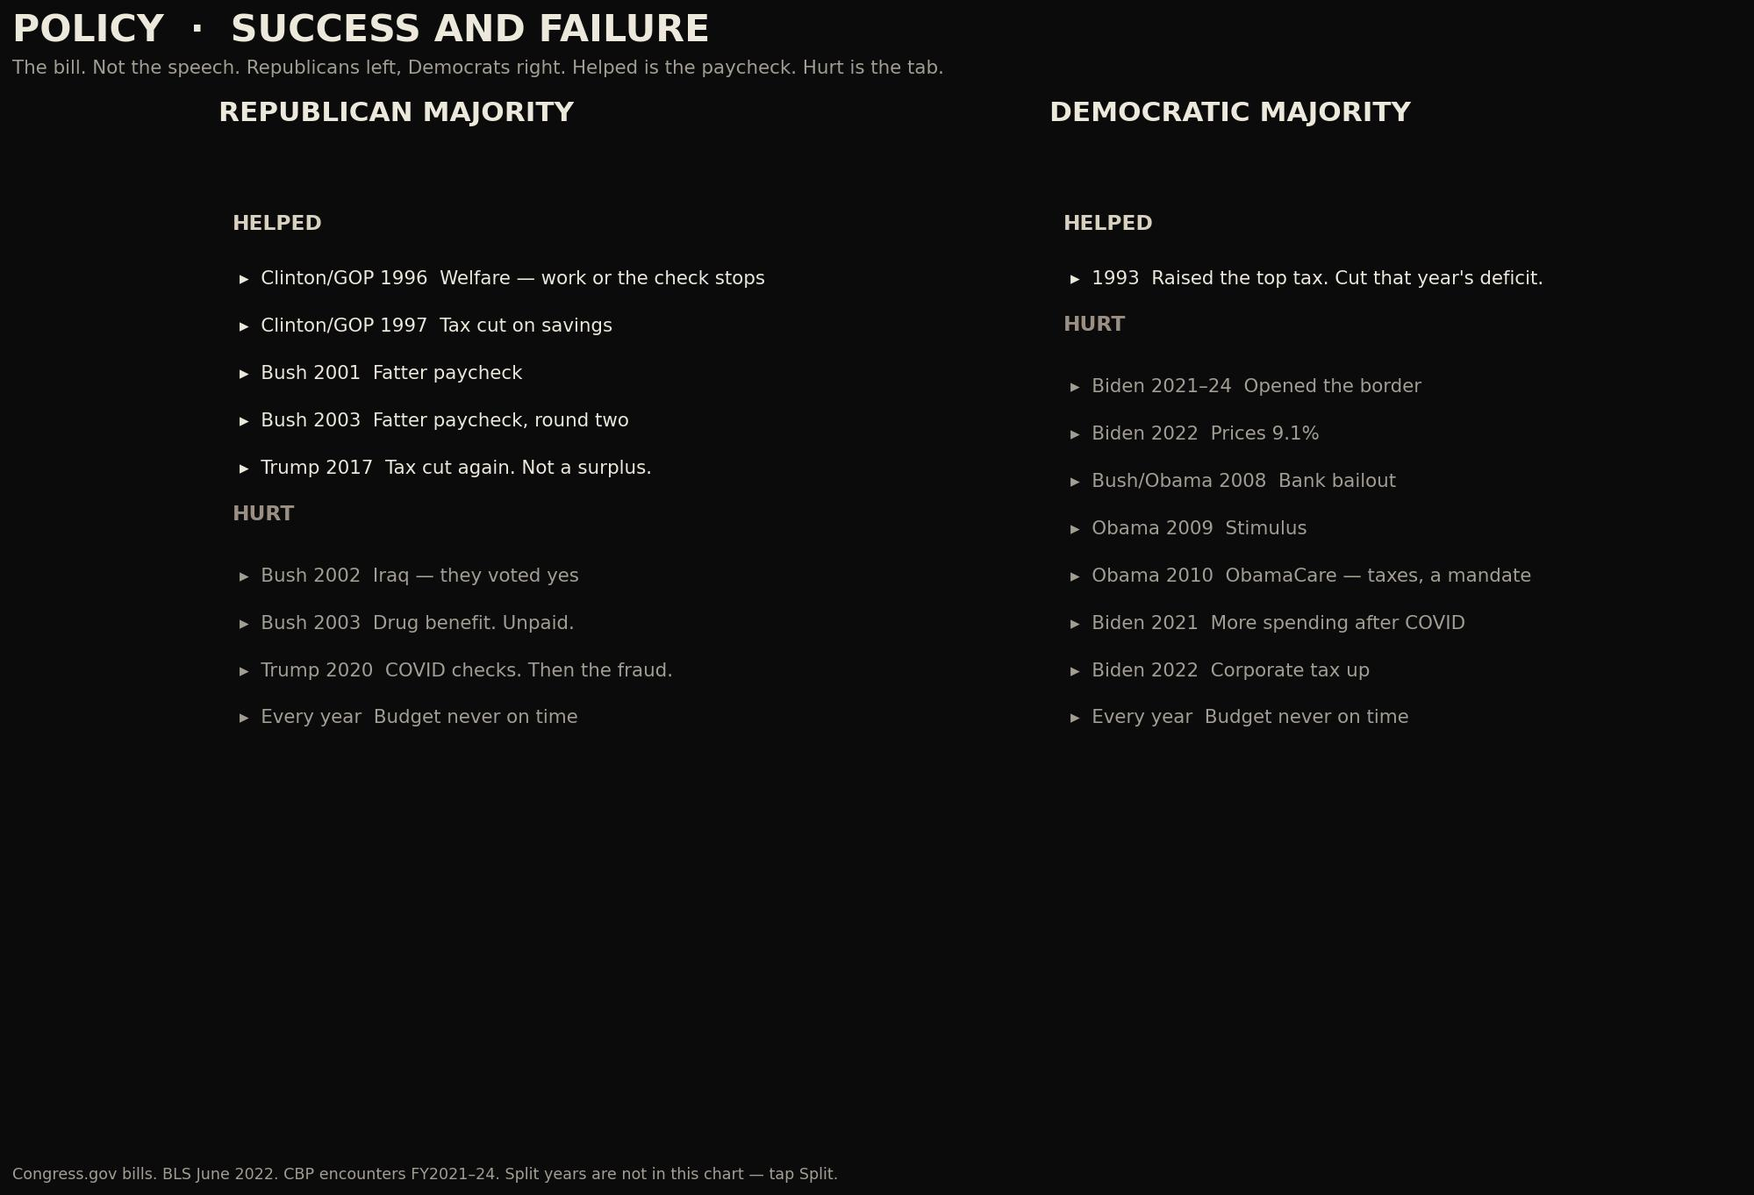
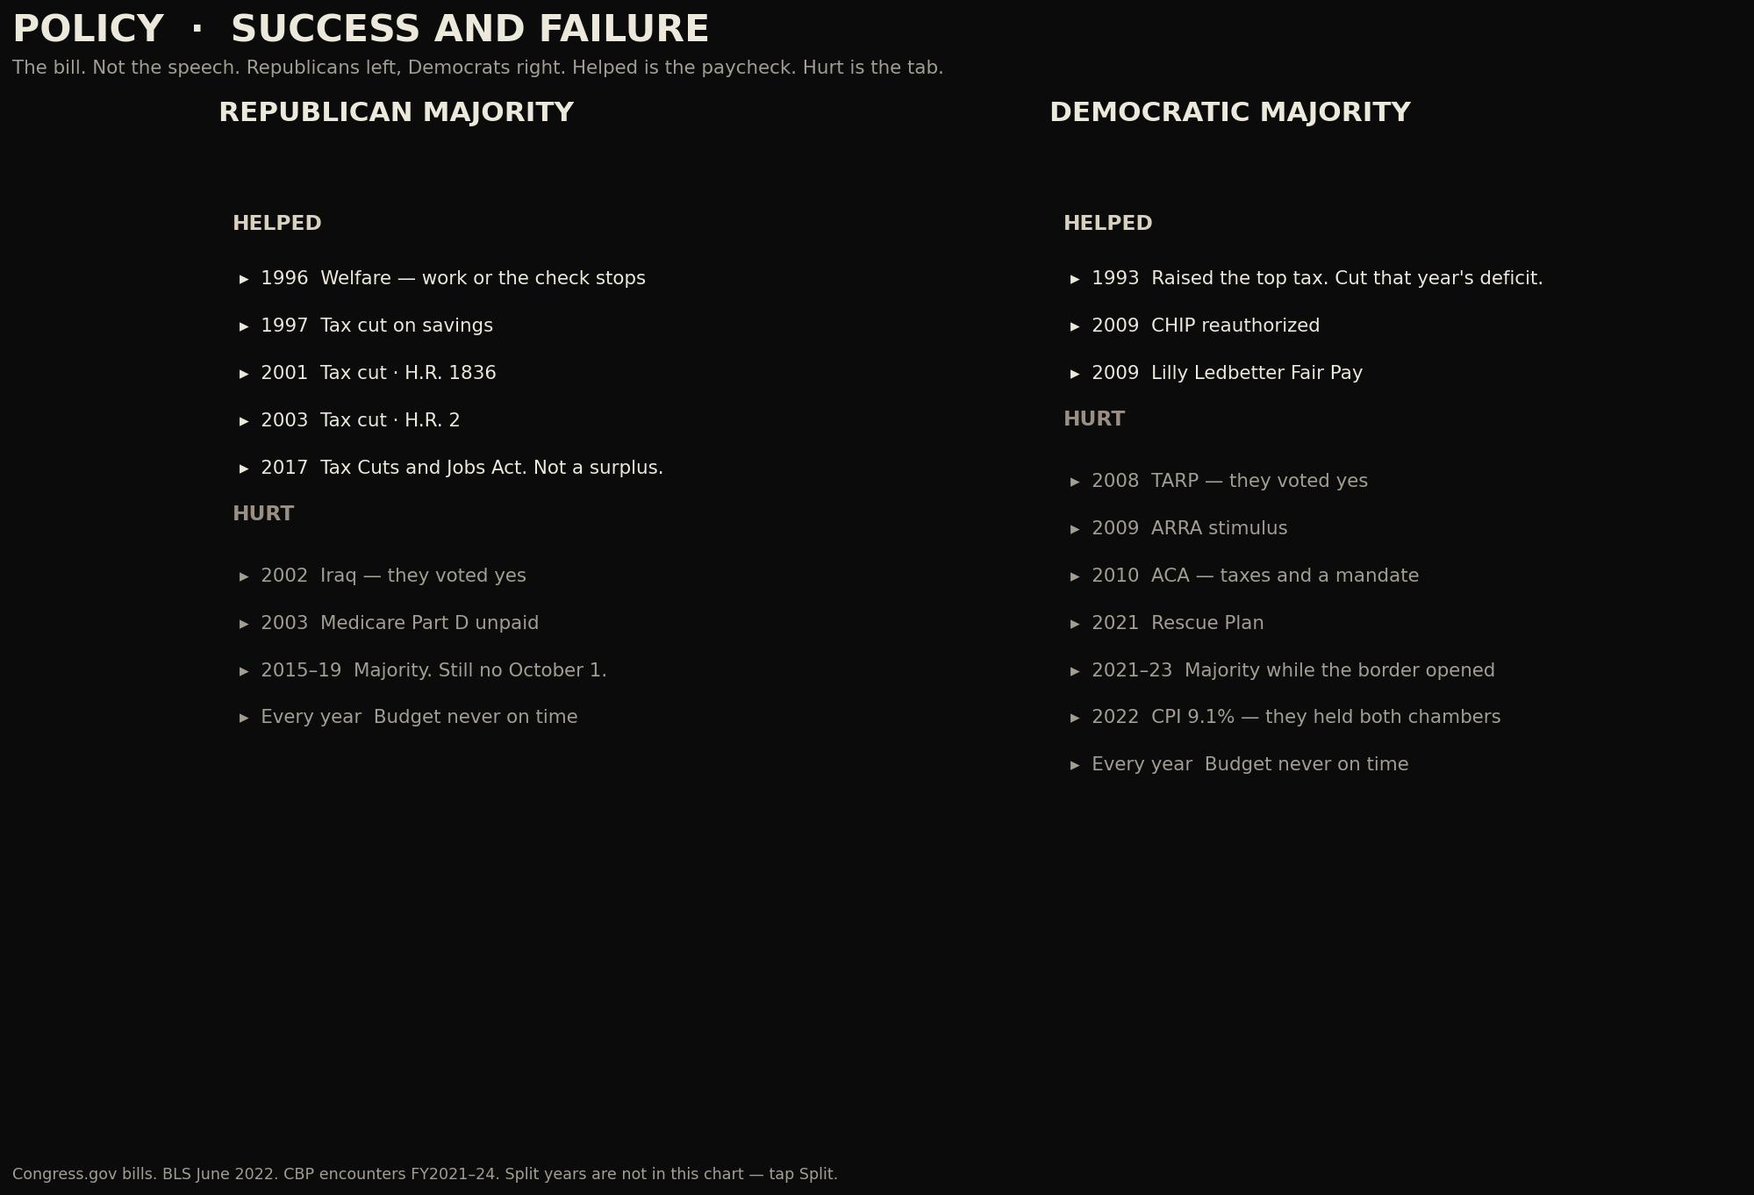
GOP file is majority bills. Oval meters stay on Oval and Compare.

diff --git a/UPLOAD-TO-NAMECHEAP/scorecard.html b/UPLOAD-TO-NAMECHEAP/scorecard.html
@@ -92,12 +92,12 @@ footer .f{max-width:72rem;margin:0 auto;display:flex;justify-content:space-betwe
 <div class="panel" id="gop-charts">
 <p class="btns"><a class="btn" href="#gop-charts">Charts</a><a class="btn out" href="#gop-read">Read</a></p>
 
-<figure><p class="kicker">Helped and hurt — Congress and the Oval</p><img src="/images/chart-helped-hurt.jpg" alt="Helped and hurt — Congress and the Oval"/><figcaption style="color:#a39e93;font-size:.85rem"><a href="https://www.congress.gov/">Congress.gov</a> · <a href="https://www.bls.gov/cpi/">BLS CPI</a> · <a href="https://www.eia.gov/petroleum/gasdiesel/">EIA — the gallon</a> · <a href="https://www.cbp.gov/newsroom/stats/nationwide-encounters">CBP nationwide</a></figcaption></figure><figure><p class="kicker">Policy — success and failure</p><img src="/images/chart-policy.jpg" alt="Policy — success and failure"/><figcaption style="color:#a39e93;font-size:.85rem"><a href="https://www.congress.gov/">Congress.gov</a> · <a href="https://www.bls.gov/news.release/archives/cpi_07132022.htm">BLS — June 2022</a></figcaption></figure><figure><p class="kicker">The debt — no oversight, $40 trillion, full-time pay for part-time hours</p><img src="/images/chart-debt-why.jpg" alt="The debt — no oversight, $40 trillion, full-time pay for part-time hours"/><figcaption style="color:#a39e93;font-size:.85rem"><a href="https://www.cbo.gov/topics/budget">CBO — budget</a> · <a href="https://fiscaldata.treasury.gov/datasets/debt-to-the-penny/">Treasury — Debt to the Penny</a> · <a href="https://www.gao.gov/products/gao-25-107746">GAO fraud</a></figcaption></figure><figure><p class="kicker">The Oval — encounters and the highest price spike (CPI)</p><img src="/images/chart-oval.jpg" alt="The Oval — encounters and the highest price spike (CPI)"/><figcaption style="color:#a39e93;font-size:.85rem"><a href="https://www.cbp.gov/newsroom/stats/cbp-enforcement-statistics">CBP — enforcement statistics</a> · <a href="https://www.bls.gov/cpi/">BLS — CPI</a> · <a href="https://www.eia.gov/petroleum/gasdiesel/">EIA — the gallon</a></figcaption></figure>
+<figure><p class="kicker">Policy — success and failure</p><img src="/images/chart-policy.jpg" alt="Policy — success and failure"/><figcaption style="color:#a39e93;font-size:.85rem"><a href="https://www.congress.gov/">Congress.gov</a> · <a href="https://www.bls.gov/news.release/archives/cpi_07132022.htm">BLS — June 2022</a></figcaption></figure><figure><p class="kicker">The debt — no oversight, $40 trillion, full-time pay for part-time hours</p><img src="/images/chart-debt-why.jpg" alt="The debt — no oversight, $40 trillion, full-time pay for part-time hours"/><figcaption style="color:#a39e93;font-size:.85rem"><a href="https://www.cbo.gov/topics/budget">CBO — budget</a> · <a href="https://fiscaldata.treasury.gov/datasets/debt-to-the-penny/">Treasury — Debt to the Penny</a> · <a href="https://www.gao.gov/products/gao-25-107746">GAO fraud</a></figcaption></figure><figure><p class="kicker">Actual inflation — who held Congress</p><img src="/images/chart-inflation-party.jpg" alt="Actual inflation — who held Congress"/><figcaption style="color:#a39e93;font-size:.85rem"><a href="https://www.bls.gov/cpi/">BLS CPI-U</a> · <a href="https://www.bls.gov/news.release/archives/cpi_07132022.htm">9.1% — June 2022</a> · <a href="https://www.bls.gov/news.release/cpi.nr0.htm">BLS live — August 2026, 3.4%</a> · <a href="https://fred.stlouisfed.org/graph/?id=CPIAUCSL&units=pc1">FRED — 12-month CPI</a></figcaption></figure>
 </div>
 <div class="panel" id="dem-charts">
 <p class="btns"><a class="btn" href="#dem-charts">Charts</a><a class="btn out" href="#dem-read">Read</a></p>
 
-<figure><p class="kicker">Helped and hurt — Congress and the Oval</p><img src="/images/chart-helped-hurt.jpg" alt="Helped and hurt — Congress and the Oval"/><figcaption style="color:#a39e93;font-size:.85rem"><a href="https://www.congress.gov/">Congress.gov</a> · <a href="https://www.bls.gov/cpi/">BLS CPI</a> · <a href="https://www.eia.gov/petroleum/gasdiesel/">EIA — the gallon</a> · <a href="https://www.cbp.gov/newsroom/stats/nationwide-encounters">CBP nationwide</a></figcaption></figure><figure><p class="kicker">The invasion bill — taxpayer cost and the eligibility doors</p><img src="/images/chart-aliens.jpg" alt="The invasion bill — taxpayer cost and the eligibility doors"/><figcaption style="color:#a39e93;font-size:.85rem"><a href="https://www.cbp.gov/newsroom/stats/nationwide-encounters">CBP nationwide</a> · <a href="https://www.cbo.gov/publication/61256">CBO 61256</a> · <a href="https://www.cbo.gov/publication/60805">CBO 60805</a> · <a href="https://www.law.cornell.edu/uscode/text/8/1611">8 U.S.C. § 1611</a></figcaption></figure><figure><p class="kicker">The open border — by administration</p><img src="/images/chart-border.jpg" alt="The open border — by administration"/><figcaption style="color:#a39e93;font-size:.85rem"><a href="https://www.cbp.gov/newsroom/stats/southwest-land-border-encounters">CBP — southwest encounters</a> · <a href="https://www.cbo.gov/publication/61256">CBO — 2023 state and local cost</a></figcaption></figure><figure><p class="kicker">The Oval — encounters and the highest price spike (CPI)</p><img src="/images/chart-oval.jpg" alt="The Oval — encounters and the highest price spike (CPI)"/><figcaption style="color:#a39e93;font-size:.85rem"><a href="https://www.cbp.gov/newsroom/stats/cbp-enforcement-statistics">CBP — enforcement statistics</a> · <a href="https://www.bls.gov/cpi/">BLS — CPI</a> · <a href="https://www.eia.gov/petroleum/gasdiesel/">EIA — the gallon</a></figcaption></figure><figure><p class="kicker">Actual inflation — who held Congress</p><img src="/images/chart-inflation-party.jpg" alt="Actual inflation — who held Congress"/><figcaption style="color:#a39e93;font-size:.85rem"><a href="https://www.bls.gov/cpi/">BLS CPI-U</a> · <a href="https://www.bls.gov/news.release/archives/cpi_07132022.htm">9.1% — June 2022</a> · <a href="https://www.bls.gov/news.release/cpi.nr0.htm">BLS live — August 2026, 3.4%</a> · <a href="https://fred.stlouisfed.org/graph/?id=CPIAUCSL&units=pc1">FRED — 12-month CPI</a></figcaption></figure><figure><p class="kicker">Policy — success and failure</p><img src="/images/chart-policy.jpg" alt="Policy — success and failure"/><figcaption style="color:#a39e93;font-size:.85rem"><a href="https://www.congress.gov/">Congress.gov</a> · <a href="https://www.bls.gov/news.release/archives/cpi_07132022.htm">BLS — June 2022</a></figcaption></figure>
+<figure><p class="kicker">Policy — success and failure</p><img src="/images/chart-policy.jpg" alt="Policy — success and failure"/><figcaption style="color:#a39e93;font-size:.85rem"><a href="https://www.congress.gov/">Congress.gov</a> · <a href="https://www.bls.gov/news.release/archives/cpi_07132022.htm">BLS — June 2022</a></figcaption></figure><figure><p class="kicker">The invasion bill — taxpayer cost and the eligibility doors</p><img src="/images/chart-aliens.jpg" alt="The invasion bill — taxpayer cost and the eligibility doors"/><figcaption style="color:#a39e93;font-size:.85rem"><a href="https://www.cbp.gov/newsroom/stats/nationwide-encounters">CBP nationwide</a> · <a href="https://www.cbo.gov/publication/61256">CBO 61256</a> · <a href="https://www.cbo.gov/publication/60805">CBO 60805</a> · <a href="https://www.law.cornell.edu/uscode/text/8/1611">8 U.S.C. § 1611</a></figcaption></figure><figure><p class="kicker">Actual inflation — who held Congress</p><img src="/images/chart-inflation-party.jpg" alt="Actual inflation — who held Congress"/><figcaption style="color:#a39e93;font-size:.85rem"><a href="https://www.bls.gov/cpi/">BLS CPI-U</a> · <a href="https://www.bls.gov/news.release/archives/cpi_07132022.htm">9.1% — June 2022</a> · <a href="https://www.bls.gov/news.release/cpi.nr0.htm">BLS live — August 2026, 3.4%</a> · <a href="https://fred.stlouisfed.org/graph/?id=CPIAUCSL&units=pc1">FRED — 12-month CPI</a></figcaption></figure>
 </div>
 <div class="panel" id="split-charts">
 <p class="btns"><a class="btn" href="#split-charts">Charts</a><a class="btn out" href="#split-read">Read</a></p>
@@ -107,7 +107,7 @@ footer .f{max-width:72rem;margin:0 auto;display:flex;justify-content:space-betwe
 <div class="panel" id="oval-charts">
 <p class="btns"><a class="btn" href="#oval-charts">Charts</a><a class="btn out" href="#oval-read">Read</a></p>
 <p class="kicker">What an encounter is</p><p>Customs and Border Protection counts an encounter when its officers meet a person who is not making a lawful entry. That is Border Patrol between the ports of entry, and officers at land ports, airports, and seaports. It is people stopped, turned back, expelled, or processed. It is not a visa. It is not a gotaway — those are the people CBP did not meet. Nationwide means every door CBP counts, not only the southwest river. Bush and Obama use southwest Border Patrol, the long official table. Trump 1 and Biden use CBP nationwide when that dashboard exists. Four Ovals: two Republican, two Democratic.</p><p><a href="https://www.cbp.gov/newsroom/stats/nationwide-encounters">CBP — nationwide encounters →</a></p><p class="kicker">What CPI peak means</p><p>CPI is the Consumer Price Index. The Bureau of Labor Statistics measures a basket of what people actually buy — groceries, rent, fuel, the doctor’s office — and reports how much more that basket costs than a year earlier. CPI peak is the highest of those 12-month readings in that Oval. It is not a four-year average. Biden’s 9.1% is June 2022. Bush’s 5.6% is July 2008. Obama’s 3.9% is September 2011. Trump’s first term: 2.9%.</p><p><a href="https://www.bls.gov/cpi/">BLS — Consumer Price Index →</a></p>
-<figure><p class="kicker">The Oval — encounters and the highest price spike (CPI)</p><img src="/images/chart-oval.jpg" alt="The Oval — encounters and the highest price spike (CPI)"/><figcaption style="color:#a39e93;font-size:.85rem"><a href="https://www.cbp.gov/newsroom/stats/cbp-enforcement-statistics">CBP — enforcement statistics</a> · <a href="https://www.bls.gov/cpi/">BLS — CPI</a> · <a href="https://www.eia.gov/petroleum/gasdiesel/">EIA — the gallon</a></figcaption></figure><figure><p class="kicker">The gallon — four administrations</p><img src="/images/chart-pump-admins.jpg" alt="The gallon — four administrations"/><figcaption style="color:#a39e93;font-size:.85rem"><a href="https://www.eia.gov/petroleum/gasdiesel/">EIA</a> · <a href="https://fred.stlouisfed.org/series/GASREGW">FRED GASREGW</a></figcaption></figure><figure><p class="kicker">Crime — murder rate by administration</p><img src="/images/chart-crime.jpg" alt="Crime — murder rate by administration"/><figcaption style="color:#a39e93;font-size:.85rem"><a href="https://www.fbi.gov/news/stories/violent-crime-falls-at-historic-rate-new-fbi-data-show">FBI — violent crime 2025</a> · <a href="https://bjs.ojp.gov/document/ckle24.pdf">BJS — Crime Known to Law Enforcement, 2024</a></figcaption></figure>
+<figure><p class="kicker">The Oval — encounters and the highest price spike (CPI)</p><img src="/images/chart-oval.jpg" alt="The Oval — encounters and the highest price spike (CPI)"/><figcaption style="color:#a39e93;font-size:.85rem"><a href="https://www.cbp.gov/newsroom/stats/cbp-enforcement-statistics">CBP — enforcement statistics</a> · <a href="https://www.bls.gov/cpi/">BLS — CPI</a> · <a href="https://www.eia.gov/petroleum/gasdiesel/">EIA — the gallon</a></figcaption></figure><figure><p class="kicker">The gallon — four administrations</p><img src="/images/chart-pump-admins.jpg" alt="The gallon — four administrations"/><figcaption style="color:#a39e93;font-size:.85rem"><a href="https://www.eia.gov/petroleum/gasdiesel/">EIA</a> · <a href="https://fred.stlouisfed.org/series/GASREGW">FRED GASREGW</a></figcaption></figure><figure><p class="kicker">Crime — murder rate by administration</p><img src="/images/chart-crime.jpg" alt="Crime — murder rate by administration"/><figcaption style="color:#a39e93;font-size:.85rem"><a href="https://www.fbi.gov/news/stories/violent-crime-falls-at-historic-rate-new-fbi-data-show">FBI — violent crime 2025</a> · <a href="https://bjs.ojp.gov/document/ckle24.pdf">BJS — Crime Known to Law Enforcement, 2024</a></figcaption></figure><figure><p class="kicker">The open border — by administration</p><img src="/images/chart-border.jpg" alt="The open border — by administration"/><figcaption style="color:#a39e93;font-size:.85rem"><a href="https://www.cbp.gov/newsroom/stats/southwest-land-border-encounters">CBP — southwest encounters</a> · <a href="https://www.cbo.gov/publication/61256">CBO — 2023 state and local cost</a></figcaption></figure>
 </div>
 <div class="panel" id="compare-charts">
 <p class="btns"><a class="btn" href="#compare-charts">Charts</a><a class="btn out" href="#compare-read">Read</a></p>
@@ -121,9 +121,9 @@ footer .f{max-width:72rem;margin:0 auto;display:flex;justify-content:space-betwe
 <p>Majority control of the House and the Senate: 1995–2001 · 2003–07 · 2015–19 · 2025–now. That is the purse. They could pass a spending bill without Democrats.</p>
 <p>Added about $10.96 trillion on those watches since 1995. Last surplus: late 1990s.</p>
 <p class="kicker">Helped</p>
-<ul><li><a href="https://www.congress.gov/bill/104th-congress/house-bill/3734"><strong>Welfare — work, or the check stops</strong><br/>H.R. 3734 · 1996</a></li><li><a href="https://www.congress.gov/bill/105th-congress/house-bill/2014"><strong>Tax cut on savings</strong><br/>H.R. 2014 · 1997</a></li><li><a href="https://www.congress.gov/bill/107th-congress/house-bill/1836"><strong>Fatter paycheck</strong><br/>H.R. 1836 · 2001</a></li><li><a href="https://www.congress.gov/bill/108th-congress/house-bill/2"><strong>Fatter paycheck, round two</strong><br/>H.R. 2 · 2003</a></li><li><a href="https://www.congress.gov/bill/115th-congress/house-bill/1"><strong>Fatter paycheck again. Not a surplus.</strong><br/>H.R. 1 · Tax Cuts and Jobs Act · 2017</a></li><li><a href="https://www.bls.gov/cpi/"><strong>Prices stayed down. CPI peak in the first Trump term: 2.9%.</strong><br/>BLS CPI · 2017–20</a></li><li><a href="https://www.cbp.gov/newsroom/stats/southwest-land-border-encounters"><strong>Southwest Border Patrol FY2025: 237,538. Lowest since 1970.</strong><br/>CBP · FY2025</a></li></ul>
+<ul><li><a href="https://www.congress.gov/bill/104th-congress/house-bill/3734"><strong>Welfare — work, or the check stops</strong><br/>H.R. 3734 · 1996</a></li><li><a href="https://www.congress.gov/bill/105th-congress/house-bill/2014"><strong>Tax cut on savings</strong><br/>H.R. 2014 · 1997</a></li><li><a href="https://www.congress.gov/bill/107th-congress/house-bill/1836"><strong>Fatter paycheck</strong><br/>H.R. 1836 · 2001</a></li><li><a href="https://www.congress.gov/bill/108th-congress/house-bill/2"><strong>Fatter paycheck, round two</strong><br/>H.R. 2 · 2003</a></li><li><a href="https://www.congress.gov/bill/115th-congress/house-bill/1"><strong>Fatter paycheck again. Not a surplus.</strong><br/>H.R. 1 · Tax Cuts and Jobs Act · 2017</a></li></ul>
 <p class="kicker">Hurt</p>
-<ul><li><a href="https://www.congress.gov/bill/107th-congress/house-joint-resolution/114"><strong>Iraq war — they voted yes</strong><br/>H.J.Res. 114 · 2002</a></li><li><a href="https://www.congress.gov/bill/108th-congress/house-bill/1"><strong>Drug benefit. They did not pay for it.</strong><br/>H.R. 1 · Medicare Part D · 2003</a></li><li><a href="https://fiscaldata.treasury.gov/datasets/historical-debt-outstanding/"><strong>Republican majority 2015–17, Obama still in the Oval. Debt still climbed. They did not close October 1.</strong><br/>Treasury · Historical Debt Outstanding</a></li><li><a href="https://www.congress.gov/bill/116th-congress/house-bill/748"><strong>COVID checks. Both parties. Then the fraud.</strong><br/>H.R. 748 · CARES Act · 2020</a></li><li><a href="https://www.congress.gov/bill/93rd-congress/house-bill/7130"><strong>They never finish the budget on time</strong><br/>H.R. 7130 · Budget Act · 1974</a></li></ul>
+<ul><li><a href="https://www.congress.gov/bill/107th-congress/house-joint-resolution/114"><strong>Iraq war — they voted yes</strong><br/>H.J.Res. 114 · 2002</a></li><li><a href="https://www.congress.gov/bill/108th-congress/house-bill/1"><strong>Drug benefit. They did not pay for it.</strong><br/>H.R. 1 · Medicare Part D · 2003</a></li><li><a href="https://fiscaldata.treasury.gov/datasets/historical-debt-outstanding/"><strong>Republican majority 2015–17, Obama still in the Oval. Debt still climbed. They did not close October 1.</strong><br/>Treasury · Historical Debt Outstanding</a></li><li><a href="https://www.congress.gov/bill/93rd-congress/house-bill/7130"><strong>They never finish the budget on time</strong><br/>H.R. 7130 · Budget Act · 1974</a></li></ul>
 
 
 

diff --git a/src/lib/scorecard.ts b/src/lib/scorecard.ts
@@ -741,16 +741,6 @@ export const RECORD: {
         bill: "H.R. 1 · Tax Cuts and Jobs Act · 2017",
         href: "https://www.congress.gov/bill/115th-congress/house-bill/1",
       },
-      {
-        k: "Prices stayed down. CPI peak in the first Trump term: 2.9%.",
-        bill: "BLS CPI · 2017–20",
-        href: "https://www.bls.gov/cpi/",
-      },
-      {
-        k: "Southwest Border Patrol FY2025: 237,538. Lowest since 1970.",
-        bill: "CBP · FY2025",
-        href: "https://www.cbp.gov/newsroom/stats/southwest-land-border-encounters",
-      },
     ],
     minus: [
       {
@@ -767,11 +757,6 @@ export const RECORD: {
         k: "Republican majority 2015–17, Obama still in the Oval. Debt still climbed. They did not close October 1.",
         bill: "Treasury · Historical Debt Outstanding",
         href: "https://fiscaldata.treasury.gov/datasets/historical-debt-outstanding/",
-      },
-      {
-        k: "COVID checks. Both parties. Then the fraud.",
-        bill: "H.R. 748 · CARES Act · 2020",
-        href: "https://www.congress.gov/bill/116th-congress/house-bill/748",
       },
       {
         k: "They never finish the budget on time",
@@ -1204,17 +1189,19 @@ function chartsFor(...srcs: string[]) {
 }
 
 export const TAB_CHARTS: Record<(typeof SCORE_TABS)[number]["id"], ReturnType<typeof chartsFor>> = {
-  gop: chartsFor("/images/chart-helped-hurt.jpg", "/images/chart-policy.jpg", "/images/chart-debt-why.jpg", "/images/chart-oval.jpg"),
+  gop: chartsFor("/images/chart-policy.jpg", "/images/chart-debt-why.jpg", "/images/chart-inflation-party.jpg"),
   dem: chartsFor(
-    "/images/chart-helped-hurt.jpg",
-    "/images/chart-aliens.jpg",
-    "/images/chart-border.jpg",
-    "/images/chart-oval.jpg",
-    "/images/chart-inflation-party.jpg",
     "/images/chart-policy.jpg",
+    "/images/chart-aliens.jpg",
+    "/images/chart-inflation-party.jpg",
   ),
   split: chartsFor("/images/chart-debt-why.jpg", "/images/chart-blame.jpg"),
-  oval: chartsFor("/images/chart-oval.jpg", "/images/chart-pump-admins.jpg", "/images/chart-crime.jpg"),
+  oval: chartsFor(
+    "/images/chart-oval.jpg",
+    "/images/chart-pump-admins.jpg",
+    "/images/chart-crime.jpg",
+    "/images/chart-border.jpg",
+  ),
   compare: COMPARE_CHARTS,
 };
 

diff --git a/scripts/make-party-charts.py b/scripts/make-party-charts.py
@@ -190,29 +190,30 @@ fig.text(
 )
 
 gop_help = [
-    "Clinton/GOP 1996  Welfare — work or the check stops",
-    "Clinton/GOP 1997  Tax cut on savings",
-    "Bush 2001  Fatter paycheck",
-    "Bush 2003  Fatter paycheck, round two",
-    "Trump 2017  Tax cut again. Not a surplus.",
+    "1996  Welfare — work or the check stops",
+    "1997  Tax cut on savings",
+    "2001  Tax cut · H.R. 1836",
+    "2003  Tax cut · H.R. 2",
+    "2017  Tax Cuts and Jobs Act. Not a surplus.",
 ]
 gop_hurt = [
-    "Bush 2002  Iraq — they voted yes",
-    "Bush 2003  Drug benefit. Unpaid.",
-    "Trump 2020  COVID checks. Then the fraud.",
+    "2002  Iraq — they voted yes",
+    "2003  Medicare Part D unpaid",
+    "2015–19  Majority. Still no October 1.",
     "Every year  Budget never on time",
 ]
 dem_help = [
     "1993  Raised the top tax. Cut that year's deficit.",
+    "2009  CHIP reauthorized",
+    "2009  Lilly Ledbetter Fair Pay",
 ]
 dem_hurt = [
-    "Biden 2021–24  Opened the border",
-    "Biden 2022  Prices 9.1%",
-    "Bush/Obama 2008  Bank bailout",
-    "Obama 2009  Stimulus",
-    "Obama 2010  ObamaCare — taxes, a mandate",
-    "Biden 2021  More spending after COVID",
-    "Biden 2022  Corporate tax up",
+    "2008  TARP — they voted yes",
+    "2009  ARRA stimulus",
+    "2010  ACA — taxes and a mandate",
+    "2021  Rescue Plan",
+    "2021–23  Majority while the border opened",
+    "2022  CPI 9.1% — they held both chambers",
     "Every year  Budget never on time",
 ]
 
@@ -798,8 +799,8 @@ ax_d = fig.add_subplot(gs[0, 2:])
 box(
     ax_g,
     "CONGRESS  ·  REPUBLICAN MAJORITY",
-    ["Welfare 1996 — work or the check stops", "Tax cuts 2001, 2003, 2017", "CPI peak Trump 1: 2.9%"],
-    ["Iraq — they voted yes", "Medicare Part D unpaid", "Never close October 1", "CARES, then the fraud"],
+    ["Welfare 1996 — work or the check stops", "Tax cuts 2001, 2003, 2017"],
+    ["Iraq — they voted yes", "Medicare Part D unpaid", "Never close October 1"],
     gop_c,
 )
 box(
